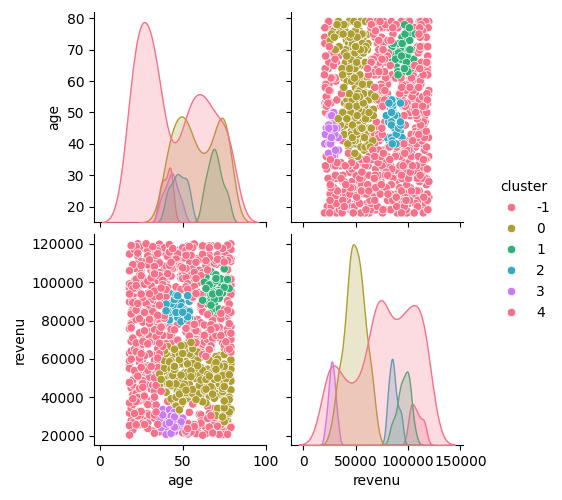
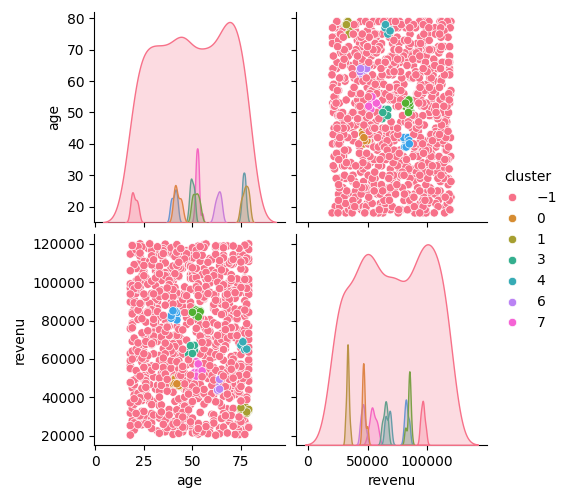
3eme commit

diff --git a/cluster_2_DBSCAN.py b/cluster_2_DBSCAN.py
@@ -16,7 +16,7 @@ scaler = StandardScaler()
 data_scaled = scaler.fit_transform(data[['age', 'revenu']])  # Nous ne normalisons que les colonnes 'age' et 'revenu'
 
 # 3. Clustering avec DBSCAN (ajuster les paramètres eps et min_samples)
-dbscan = DBSCAN(eps=0.3, min_samples=30)  # Essayez de réduire eps et augmenter min_samples
+dbscan = DBSCAN(eps=0.12, min_samples=10)  # Essayez de réduire eps et augmenter min_samples
 data['cluster'] = dbscan.fit_predict(data_scaled)
 
 # Vérifiez l'ajout de la colonne 'cluster'

diff --git a/clustering.py b/clustering.py
@@ -20,7 +20,7 @@ def clustering_analyse(file_path):
     data_scaled = scaler.fit_transform(data_encoded)
 
     # 1. Clustering avec K-Means
-    kmeans = KMeans(n_clusters=4, random_state=42)  # Vous pouvez changer le nombre de clusters
+    kmeans = KMeans(n_clusters=3, random_state=42)  # Vous pouvez changer le nombre de clusters
     kmeans_labels = kmeans.fit_predict(data_scaled)
 
     # 2. Clustering avec DBSCAN avec paramètres modifiés
